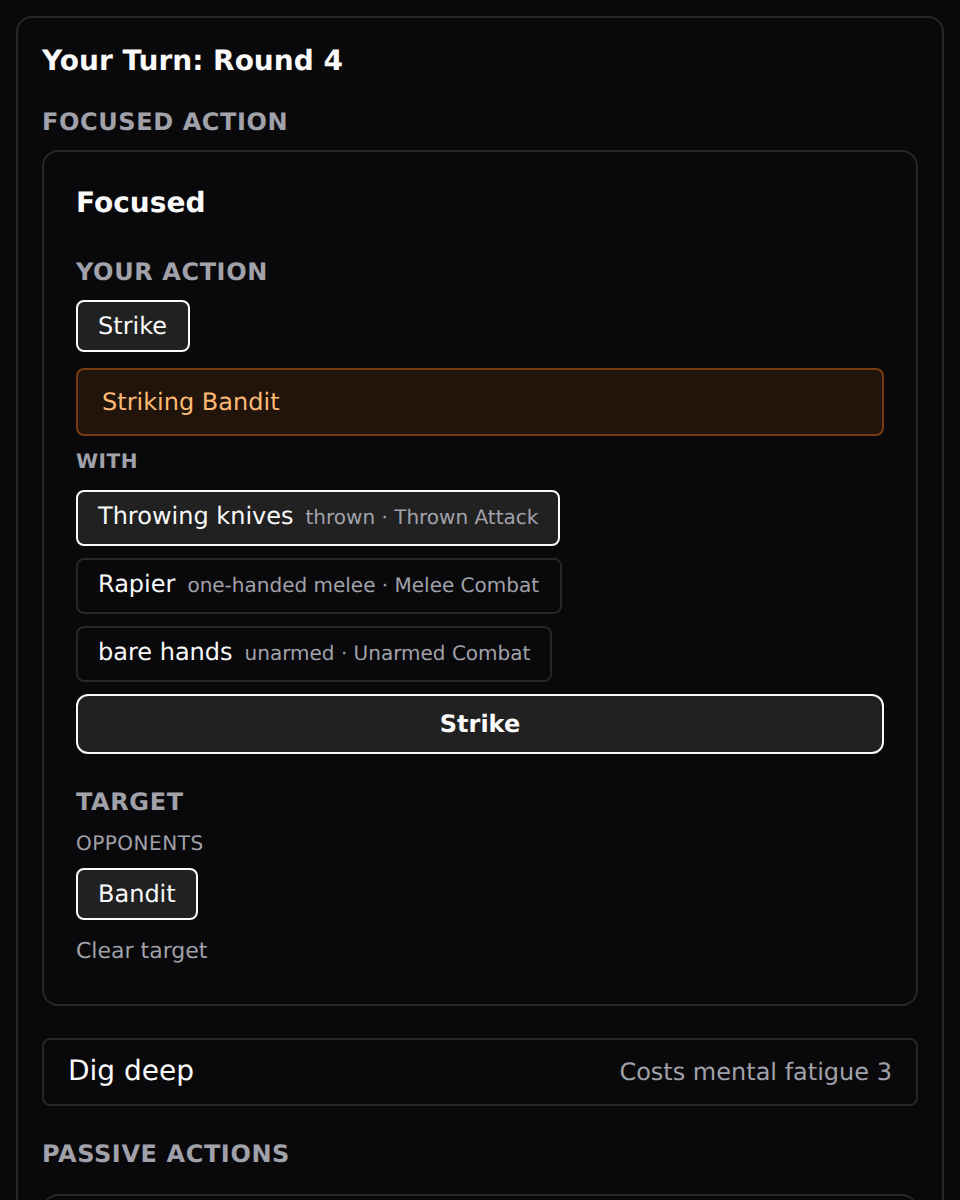
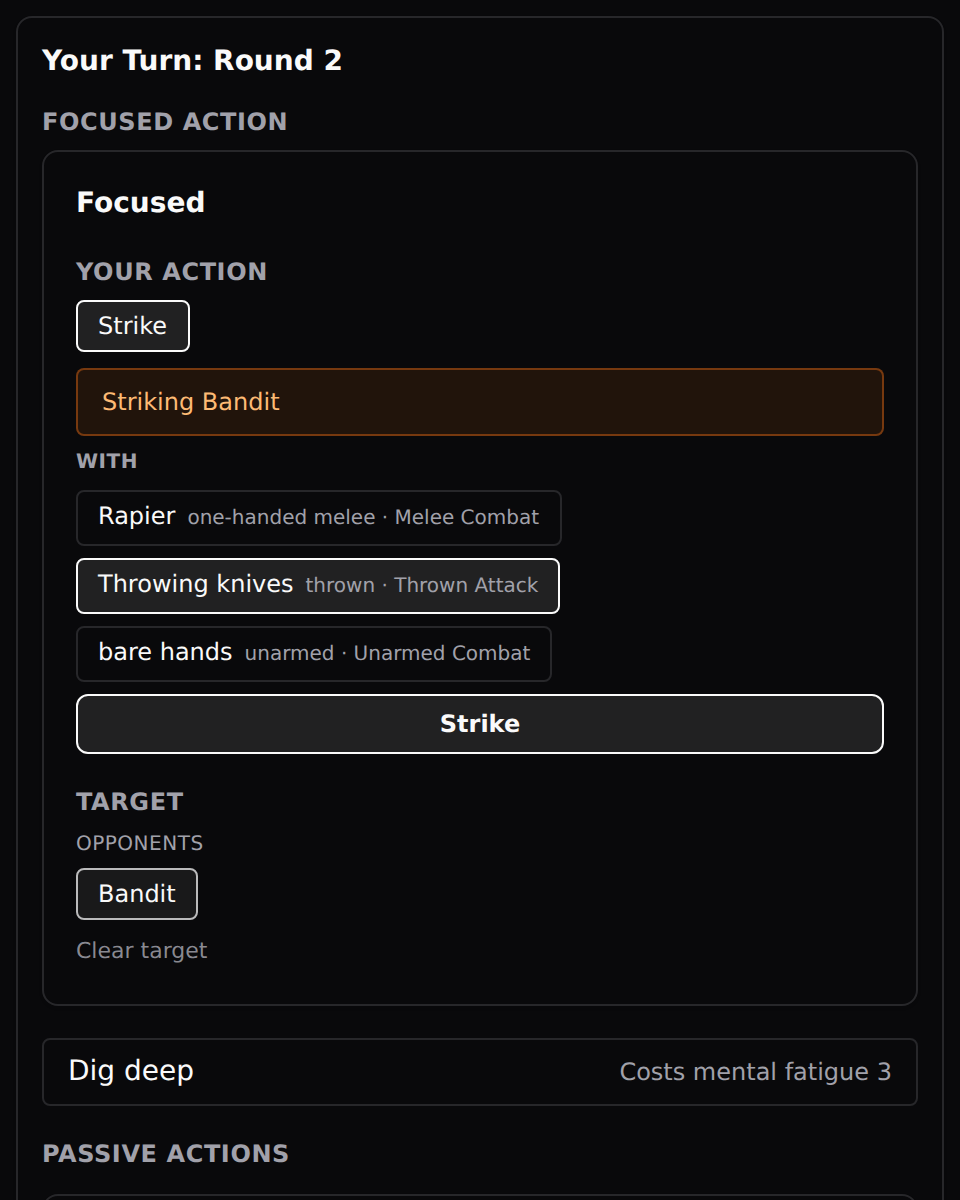
Demo-fidelity review of the basic Strike: PASS, weapon chips keep their order after a hit (#4858)

Changed region(s): [[0.0938, 0.4008, 0.5938, 0.5242], [0.3438, 0.0308, 0.375, 0.0617]]

diff --git a/docs/reviews/4858/demo-fidelity.md b/docs/reviews/4858/demo-fidelity.md
@@ -1,19 +1,19 @@
 # Review evidence: #4858 the basic Strike, demo fidelity (slice 1 of #4844)
 
-- Reviewed revision: 8278f0ec6cecd50840f737c5ca65f303c588be85
+- Reviewed revision: a61093fc3d4b185c9c61baa47042b719e81c3354
 - Reviewer: demo-fidelity-reviewer
-- Reviewer verdict: FAIL
-- Application/build identity: Arx II, branch feature-4858-the-basic-strike-any-character-attacks-w at 8278f0ec6cecd50840f737c5ca65f303c588be85 (second review; the first, at 6d7d153392949a3db4e92cfc9fda837d0a5f577e, found the dropped hit-roll note and the empty reload). The real CombatTurnPanel (YourTurn, ActionDeclarationCard with its Strike leading pick, StrikeControl, RollBreakdownCard in the Last Outcome card) mounted from a throwaway Vite page that used the app's own query client and the real combat_encounter_state handler, served by the branch's own frontend at http://localhost:3918 (deleted after the run). Screen 10 comes from the real telnet command handler.
+- Reviewer verdict: PASS
+- Application/build identity: Arx II, branch feature-4858-the-basic-strike-any-character-attacks-w at a61093fc3d4b185c9c61baa47042b719e81c3354 (third review; the first, at 6d7d153392949a3db4e92cfc9fda837d0a5f577e, found the dropped hit-roll note and the empty reload; the second, at 8278f0ec6cecd50840f737c5ca65f303c588be85, found the weapon chips reordering after a hit, fixed in a61093fc3). The real CombatTurnPanel (YourTurn, ActionDeclarationCard with its Strike leading pick, StrikeControl, RollBreakdownCard in the Last Outcome card) mounted from a throwaway Vite page that used the app's own query client and the real combat_encounter_state handler, served by the branch's own frontend at http://localhost:3918 (deleted after the run). Screen 10 comes from the real telnet command handler.
 - Environment: Chromium through Playwright with colour scheme emulation. Payloads are real: a throwaway journey test (deleted after the run) subclassed the branch's Strike journey setup on the Postgres test database and recorded the real /api/combat/ encounter responses (undeclared, declared with the Rapier, after resolution, declared with the Throwing knives) and the real /api/checks/consequence-outcomes/ responses (a miss row, a hit and damage pair, and a Fine-quality Rapier pair), plus the telnet lines the command handler sent. These rows now come from the roll snapshot stored at roll time. Hobb has a Rapier (one-handed melee, equipped), Throwing knives (thrown) and bare hands against a Bandit.
 - Viewports/themes: 480 wide (the combat rail, labelled desktop) and 390 wide (phone), each in dark and light, device scale 2, cropped to the Your Turn card or the Last Outcome card. Demo references (unchanged from the first review, the demo file is unmodified) rendered at 980 and 390 wide in both themes with the demo own prefers-color-scheme rules.
 - Approved design: https://claude.ai/artifact/XW1VAkFTajFhwGp2EvcXRt (Style and Vow Picks), Screen 4 (a Strike with no technique) and the Strike lines of Screen 10 (telnet). Read in full from a local copy. Issue #4858 spec and the #4844 spec (rows on the Strike roll breakdown) were read for rulings.
 - Visual review: Completed by a vision-capable reviewer. Every build image was opened and compared by eye with the demo screen it answers, at the same viewport width and theme (individually for the key states, and on contact sheets for the remaining theme and viewport variants). Demo screens that are out of scope for this slice (styles, the lapse, natural weapons, vow picks) were not compared and are expected absent.
-- Visual verdict: FAIL
-- Screenshots: ![demo-screen10-desktop-dark](.github/issue-evidence/4858/demo-screen10-desktop-dark.png) ![demo-screen10-desktop-light](.github/issue-evidence/4858/demo-screen10-desktop-light.png) ![demo-screen10-phone-dark](.github/issue-evidence/4858/demo-screen10-phone-dark.png) ![demo-screen10-phone-light](.github/issue-evidence/4858/demo-screen10-phone-light.png) ![demo-screen4-desktop-dark](.github/issue-evidence/4858/demo-screen4-desktop-dark.png) ![demo-screen4-desktop-light](.github/issue-evidence/4858/demo-screen4-desktop-light.png) ![demo-screen4-phone-dark](.github/issue-evidence/4858/demo-screen4-phone-dark.png) ![demo-screen4-phone-light](.github/issue-evidence/4858/demo-screen4-phone-light.png) ![finding-default-weapon-flips-desktop-dark](.github/issue-evidence/4858/finding-default-weapon-flips-desktop-dark.png) ![finding-default-weapon-flips-desktop-light](.github/issue-evidence/4858/finding-default-weapon-flips-desktop-light.png) ![last-outcome-card-desktop-dark](.github/issue-evidence/4858/last-outcome-card-desktop-dark.png) ![last-outcome-card-desktop-light](.github/issue-evidence/4858/last-outcome-card-desktop-light.png) ![last-outcome-card-phone-dark](.github/issue-evidence/4858/last-outcome-card-phone-dark.png) ![last-outcome-card-phone-light](.github/issue-evidence/4858/last-outcome-card-phone-light.png) ![last-outcome-fine-quality-desktop-dark](.github/issue-evidence/4858/last-outcome-fine-quality-desktop-dark.png) ![last-outcome-fine-quality-desktop-light](.github/issue-evidence/4858/last-outcome-fine-quality-desktop-light.png) ![last-outcome-fine-quality-phone-dark](.github/issue-evidence/4858/last-outcome-fine-quality-phone-dark.png) ![last-outcome-fine-quality-phone-light](.github/issue-evidence/4858/last-outcome-fine-quality-phone-light.png) ![last-outcome-miss-desktop-dark](.github/issue-evidence/4858/last-outcome-miss-desktop-dark.png) ![last-outcome-miss-desktop-light](.github/issue-evidence/4858/last-outcome-miss-desktop-light.png) ![last-outcome-miss-phone-dark](.github/issue-evidence/4858/last-outcome-miss-phone-dark.png) ![last-outcome-miss-phone-light](.github/issue-evidence/4858/last-outcome-miss-phone-light.png) ![live-refresh-after-desktop-dark](.github/issue-evidence/4858/live-refresh-after-desktop-dark.png) ![live-refresh-after-desktop-light](.github/issue-evidence/4858/live-refresh-after-desktop-light.png) ![live-refresh-after-phone-dark](.github/issue-evidence/4858/live-refresh-after-phone-dark.png) ![live-refresh-after-phone-light](.github/issue-evidence/4858/live-refresh-after-phone-light.png) ![telnet-strike-dark](.github/issue-evidence/4858/telnet-strike-dark.png) ![telnet-strike-light](.github/issue-evidence/4858/telnet-strike-light.png) ![turn-default-desktop-dark](.github/issue-evidence/4858/turn-default-desktop-dark.png) ![turn-default-desktop-light](.github/issue-evidence/4858/turn-default-desktop-light.png) ![turn-default-phone-dark](.github/issue-evidence/4858/turn-default-phone-dark.png) ![turn-default-phone-light](.github/issue-evidence/4858/turn-default-phone-light.png) ![turn-reload-declared-desktop-dark](.github/issue-evidence/4858/turn-reload-declared-desktop-dark.png) ![turn-reload-declared-desktop-light](.github/issue-evidence/4858/turn-reload-declared-desktop-light.png) ![turn-reload-declared-knives-desktop-dark](.github/issue-evidence/4858/turn-reload-declared-knives-desktop-dark.png) ![turn-reload-declared-knives-desktop-light](.github/issue-evidence/4858/turn-reload-declared-knives-desktop-light.png) ![turn-reload-declared-knives-phone-dark](.github/issue-evidence/4858/turn-reload-declared-knives-phone-dark.png) ![turn-reload-declared-knives-phone-light](.github/issue-evidence/4858/turn-reload-declared-knives-phone-light.png) ![turn-reload-declared-phone-dark](.github/issue-evidence/4858/turn-reload-declared-phone-dark.png) ![turn-reload-declared-phone-light](.github/issue-evidence/4858/turn-reload-declared-phone-light.png) ![turn-strike-just-declared-desktop-dark](.github/issue-evidence/4858/turn-strike-just-declared-desktop-dark.png) ![turn-strike-just-declared-desktop-light](.github/issue-evidence/4858/turn-strike-just-declared-desktop-light.png) ![turn-strike-just-declared-phone-dark](.github/issue-evidence/4858/turn-strike-just-declared-phone-dark.png) ![turn-strike-just-declared-phone-light](.github/issue-evidence/4858/turn-strike-just-declared-phone-light.png) ![turn-strike-picked-desktop-dark](.github/issue-evidence/4858/turn-strike-picked-desktop-dark.png) ![turn-strike-picked-desktop-light](.github/issue-evidence/4858/turn-strike-picked-desktop-light.png) ![turn-strike-picked-phone-dark](.github/issue-evidence/4858/turn-strike-picked-phone-dark.png) ![turn-strike-picked-phone-light](.github/issue-evidence/4858/turn-strike-picked-phone-light.png) ![turn-strike-target-desktop-dark](.github/issue-evidence/4858/turn-strike-target-desktop-dark.png) ![turn-strike-target-desktop-light](.github/issue-evidence/4858/turn-strike-target-desktop-light.png) ![turn-strike-target-phone-dark](.github/issue-evidence/4858/turn-strike-target-phone-dark.png) ![turn-strike-target-phone-light](.github/issue-evidence/4858/turn-strike-target-phone-light.png) ![turn-with-techniques-desktop-dark](.github/issue-evidence/4858/turn-with-techniques-desktop-dark.png) ![turn-with-techniques-desktop-light](.github/issue-evidence/4858/turn-with-techniques-desktop-light.png) ![turn-with-techniques-phone-dark](.github/issue-evidence/4858/turn-with-techniques-phone-dark.png) ![turn-with-techniques-phone-light](.github/issue-evidence/4858/turn-with-techniques-phone-light.png)
-- Comparison notes: Everything the first review reported is fixed. The hit roll result row now reads Hit, good on the left and then the damage roll on the right, in the same ruled two-column row as the other rows, on every hit and not on a miss. A round loaded with a Strike already declared now shows the Strike chip selected, the Striking Bandit badge, the declared weapon (the knives when the knives were declared) and the target selected. The Last Outcome rows appear when the round resolves without a reload. One new divergence is unresolved. The demo draws the Rapier as the first, selected weapon chip; in the build the weapon list has no defined order. The recorded encounter listed the Rapier first until the Rapier was used for a hit, then listed Throwing knives first, so on the next round the panel defaults the Strike to the knives (finding-default-weapon-flips-desktop-dark.png; that image uses the round 4 encounter payload with its declared Strike removed, everything else as recorded). A throwaway test confirmed the cause: strike_weapon_options (src/world/combat/services/declarations/strike.py) iterates character.equipped_items, whose query (src/world/items/handlers.py, EquippedItem.objects.filter(...) with no order_by and no Meta.ordering) has no order, and the Rapier row moves when its durability is decremented; the list was Rapier, Throwing knives, bare hands, then Throwing knives, Rapier, bare hands after one decrement. Justified divergences, not defects. (a) The Maneuver chip is not in the action row because maneuvers keep their existing section below. (b) Strike declares at round resolution instead of instantly, so the build shows a Strike confirm button, the Striking Bandit badge once declared, a You ready a strike line in telnet, and the roll rows in the Last Outcome card after the round resolves instead of in the pick leaf. (c) A bare hands chip is offered, as the demo intro allows fists. (d) The skill rating number beside Melee Combat and the stat row wording stand on the #4844 ruling that the breakdown shows the attacker terms, and on the slice statement that the stat is the strike skill default. (e) Weapon chips use the catalog names (one-handed melee, Melee Combat, Thrown Attack) where the demo uses shortened example words, and the roll heading uses the real opponent name. (f) The demo styling (serif small caps, mono notes, paper palette) is a mock leaf; the build follows the combat rail tokens in both themes. Observation, not a defect: the orange Striking badge in light theme is pale (turn-strike-just-declared-phone-light.png) but follows the repo existing declared badge classes. Rendering reaches the page: the build is Tailwind utilities from the app own bundle, and every element rendered styled in both themes. Out of scope and correctly absent: the style row and style skill (slice 2), the lapse (Screen 5), natural weapons (slice 4), vow picks (Screens 3, 7, 8, 9).
-- Tested interactions: Picked the Strike chip, saw the With row and a disabled Strike button; picked the Bandit target, the button enabled; clicked Strike and read the dispatch body (combat_strike with opponent_id and weapon_id of the first weapon, the Rapier). Loaded a round with a Strike already declared with the Rapier and another declared with the Throwing knives, and read what was selected with nothing clicked. Loaded the panel with technique chips to see Strike lead the row. Loaded the declared round with no rolls, switched the served state to the resolved round, ran the real combat_encounter_state handler and watched the hit and damage rows appear. Loaded the post-resolution encounter for a hit with damage, for a miss, and for a Fine-quality Rapier. Typed strike bandit with Rapier through the real telnet command handler and read the declare, miss and hit lines. Loaded the round 4 encounter with the declaration removed and picked Strike to see the default weapon.
-- Fixture/live boundary: Live: the REST payloads (encounter, consequence outcomes, strike weapons, roll breakdowns, declared round actions) and the telnet lines come from the real application code on a Postgres test database. Forced: the hit and damage roll outcomes (Failure for the miss, Critical Success then Success for the hit, Success then Success for the Fine pair). Fixture: the Rapier, Throwing knives names, the test check setup (Melee Attack, Unarmed Attack, Thrown Attack), the Fine quality tier, and the two technique chips in the technique-row screenshots (static fixture actions in the shape the ActionDeclarationCard tests use). The finding-default-weapon-flips images use a recorded payload with current_round_actions emptied by the harness. The Playwright page intercepted the browser API calls and served the recorded payloads and answered the dispatch POST with success, so no server ran during the screenshots; the websocket message was simulated by calling the real handler in the page. Not rendered live: a full web session through a running game.
-- Overall outcome: FAIL
+- Visual verdict: PASS
+- Screenshots: ![demo-screen10-desktop-dark](.github/issue-evidence/4858/demo-screen10-desktop-dark.png) ![demo-screen10-desktop-light](.github/issue-evidence/4858/demo-screen10-desktop-light.png) ![demo-screen10-phone-dark](.github/issue-evidence/4858/demo-screen10-phone-dark.png) ![demo-screen10-phone-light](.github/issue-evidence/4858/demo-screen10-phone-light.png) ![demo-screen4-desktop-dark](.github/issue-evidence/4858/demo-screen4-desktop-dark.png) ![demo-screen4-desktop-light](.github/issue-evidence/4858/demo-screen4-desktop-light.png) ![demo-screen4-phone-dark](.github/issue-evidence/4858/demo-screen4-phone-dark.png) ![demo-screen4-phone-light](.github/issue-evidence/4858/demo-screen4-phone-light.png) ![last-outcome-card-desktop-dark](.github/issue-evidence/4858/last-outcome-card-desktop-dark.png) ![last-outcome-card-desktop-light](.github/issue-evidence/4858/last-outcome-card-desktop-light.png) ![last-outcome-card-phone-dark](.github/issue-evidence/4858/last-outcome-card-phone-dark.png) ![last-outcome-card-phone-light](.github/issue-evidence/4858/last-outcome-card-phone-light.png) ![last-outcome-fine-quality-desktop-dark](.github/issue-evidence/4858/last-outcome-fine-quality-desktop-dark.png) ![last-outcome-fine-quality-desktop-light](.github/issue-evidence/4858/last-outcome-fine-quality-desktop-light.png) ![last-outcome-fine-quality-phone-dark](.github/issue-evidence/4858/last-outcome-fine-quality-phone-dark.png) ![last-outcome-fine-quality-phone-light](.github/issue-evidence/4858/last-outcome-fine-quality-phone-light.png) ![last-outcome-miss-desktop-dark](.github/issue-evidence/4858/last-outcome-miss-desktop-dark.png) ![last-outcome-miss-desktop-light](.github/issue-evidence/4858/last-outcome-miss-desktop-light.png) ![last-outcome-miss-phone-dark](.github/issue-evidence/4858/last-outcome-miss-phone-dark.png) ![last-outcome-miss-phone-light](.github/issue-evidence/4858/last-outcome-miss-phone-light.png) ![live-refresh-after-desktop-dark](.github/issue-evidence/4858/live-refresh-after-desktop-dark.png) ![live-refresh-after-desktop-light](.github/issue-evidence/4858/live-refresh-after-desktop-light.png) ![live-refresh-after-phone-dark](.github/issue-evidence/4858/live-refresh-after-phone-dark.png) ![live-refresh-after-phone-light](.github/issue-evidence/4858/live-refresh-after-phone-light.png) ![telnet-strike-dark](.github/issue-evidence/4858/telnet-strike-dark.png) ![telnet-strike-light](.github/issue-evidence/4858/telnet-strike-light.png) ![turn-default-desktop-dark](.github/issue-evidence/4858/turn-default-desktop-dark.png) ![turn-default-desktop-light](.github/issue-evidence/4858/turn-default-desktop-light.png) ![turn-default-phone-dark](.github/issue-evidence/4858/turn-default-phone-dark.png) ![turn-default-phone-light](.github/issue-evidence/4858/turn-default-phone-light.png) ![turn-reload-declared-desktop-dark](.github/issue-evidence/4858/turn-reload-declared-desktop-dark.png) ![turn-reload-declared-desktop-light](.github/issue-evidence/4858/turn-reload-declared-desktop-light.png) ![turn-reload-declared-knives-desktop-dark](.github/issue-evidence/4858/turn-reload-declared-knives-desktop-dark.png) ![turn-reload-declared-knives-desktop-light](.github/issue-evidence/4858/turn-reload-declared-knives-desktop-light.png) ![turn-reload-declared-knives-phone-dark](.github/issue-evidence/4858/turn-reload-declared-knives-phone-dark.png) ![turn-reload-declared-knives-phone-light](.github/issue-evidence/4858/turn-reload-declared-knives-phone-light.png) ![turn-reload-declared-phone-dark](.github/issue-evidence/4858/turn-reload-declared-phone-dark.png) ![turn-reload-declared-phone-light](.github/issue-evidence/4858/turn-reload-declared-phone-light.png) ![turn-strike-just-declared-desktop-dark](.github/issue-evidence/4858/turn-strike-just-declared-desktop-dark.png) ![turn-strike-just-declared-desktop-light](.github/issue-evidence/4858/turn-strike-just-declared-desktop-light.png) ![turn-strike-just-declared-phone-dark](.github/issue-evidence/4858/turn-strike-just-declared-phone-dark.png) ![turn-strike-just-declared-phone-light](.github/issue-evidence/4858/turn-strike-just-declared-phone-light.png) ![turn-strike-picked-desktop-dark](.github/issue-evidence/4858/turn-strike-picked-desktop-dark.png) ![turn-strike-picked-desktop-light](.github/issue-evidence/4858/turn-strike-picked-desktop-light.png) ![turn-strike-picked-phone-dark](.github/issue-evidence/4858/turn-strike-picked-phone-dark.png) ![turn-strike-picked-phone-light](.github/issue-evidence/4858/turn-strike-picked-phone-light.png) ![turn-strike-target-desktop-dark](.github/issue-evidence/4858/turn-strike-target-desktop-dark.png) ![turn-strike-target-desktop-light](.github/issue-evidence/4858/turn-strike-target-desktop-light.png) ![turn-strike-target-phone-dark](.github/issue-evidence/4858/turn-strike-target-phone-dark.png) ![turn-strike-target-phone-light](.github/issue-evidence/4858/turn-strike-target-phone-light.png) ![turn-with-techniques-desktop-dark](.github/issue-evidence/4858/turn-with-techniques-desktop-dark.png) ![turn-with-techniques-desktop-light](.github/issue-evidence/4858/turn-with-techniques-desktop-light.png) ![turn-with-techniques-phone-dark](.github/issue-evidence/4858/turn-with-techniques-phone-dark.png) ![turn-with-techniques-phone-light](.github/issue-evidence/4858/turn-with-techniques-phone-light.png) ![weapon-order-after-hit-desktop-dark](.github/issue-evidence/4858/weapon-order-after-hit-desktop-dark.png) ![weapon-order-after-hit-desktop-light](.github/issue-evidence/4858/weapon-order-after-hit-desktop-light.png)
+- Comparison notes: Everything the first review reported is fixed. The hit roll result row now reads Hit, good on the left and then the damage roll on the right, in the same ruled two-column row as the other rows, on every hit and not on a miss. A round loaded with a Strike already declared now shows the Strike chip selected, the Striking Bandit badge, the declared weapon (the knives when the knives were declared) and the target selected. The Last Outcome rows appear when the round resolves without a reload. The weapon chip order, the one divergence the second review reported, is fixed: the equipped-items query now has a defined order (order_by pk, a61093fc3). Re-verified the way it was found, on a throwaway journey on the Postgres test database: Hobb with the Rapier and the Throwing knives, the encounter recorded before the Strike, after a Strike hit with the Rapier that took its durability from 10 to 9, and in the next round. The list read Rapier, Throwing knives, bare hands in all three, where before the fix it flipped to Throwing knives first after the hit. With Strike picked in that next-round payload the Rapier is the first, selected chip and the knives are not (weapon-order-after-hit-desktop-dark.png, weapon-order-after-hit-desktop-light.png). Justified divergences, not defects. (a) The Maneuver chip is not in the action row because maneuvers keep their existing section below. (b) Strike declares at round resolution instead of instantly, so the build shows a Strike confirm button, the Striking Bandit badge once declared, a You ready a strike line in telnet, and the roll rows in the Last Outcome card after the round resolves instead of in the pick leaf. (c) A bare hands chip is offered, as the demo intro allows fists. (d) The skill rating number beside Melee Combat and the stat row wording stand on the #4844 ruling that the breakdown shows the attacker terms, and on the slice statement that the stat is the strike skill default. (e) Weapon chips use the catalog names (one-handed melee, Melee Combat, Thrown Attack) where the demo uses shortened example words, and the roll heading uses the real opponent name. (f) The demo styling (serif small caps, mono notes, paper palette) is a mock leaf; the build follows the combat rail tokens in both themes. Observation, not a defect: the orange Striking badge in light theme is pale (turn-strike-just-declared-phone-light.png) but follows the repo existing declared badge classes. Rendering reaches the page: the build is Tailwind utilities from the app own bundle, and every element rendered styled in both themes. Out of scope and correctly absent: the style row and style skill (slice 2), the lapse (Screen 5), natural weapons (slice 4), vow picks (Screens 3, 7, 8, 9).
+- Tested interactions: Picked the Strike chip, saw the With row and a disabled Strike button; picked the Bandit target, the button enabled; clicked Strike and read the dispatch body (combat_strike with opponent_id and weapon_id of the first weapon, the Rapier). Loaded a round with a Strike already declared with the Rapier and another declared with the Throwing knives, and read what was selected with nothing clicked. Loaded the panel with technique chips to see Strike lead the row. Loaded the declared round with no rolls, switched the served state to the resolved round, ran the real combat_encounter_state handler and watched the hit and damage rows appear. Loaded the post-resolution encounter for a hit with damage, for a miss, and for a Fine-quality Rapier. Typed strike bandit with Rapier through the real telnet command handler and read the declare, miss and hit lines. Recorded the encounter payload before and after a Rapier hit that wore the Rapier, loaded the next round and picked Strike to see the default weapon stays the Rapier. Declared a Strike with the Throwing knives after that hit and reloaded it to see the knives selected with the Rapier still first.
+- Fixture/live boundary: Live: the REST payloads (encounter, consequence outcomes, strike weapons, roll breakdowns, declared round actions) and the telnet lines come from the real application code on a Postgres test database. Forced: the hit and damage roll outcomes (Failure for the miss, Critical Success then Success for the hit, Success then Success for the Fine pair). Fixture: the Rapier, Throwing knives names, the test check setup (Melee Attack, Unarmed Attack, Thrown Attack), the Fine quality tier, and the two technique chips in the technique-row screenshots (static fixture actions in the shape the ActionDeclarationCard tests use). The Playwright page intercepted the browser API calls and served the recorded payloads and answered the dispatch POST with success, so no server ran during the screenshots; the websocket message was simulated by calling the real handler in the page. Not rendered live: a full web session through a running game.
+- Overall outcome: PASS
 
 ## Visual checklist
 
@@ -28,7 +28,7 @@ Result is MATCH, or DIVERGES for a defect. Justified divergences are marked MATC
 | S4 Maneuver chip in the row | A Maneuver chip at the end of the row | MATCH | Justified divergence (a): maneuvers keep their existing Maneuvers section below; .github/issue-evidence/4858/turn-with-techniques-desktop-dark.png shows the row without it |
 | S4 With heading | A With heading under the pick row | MATCH | .github/issue-evidence/4858/turn-strike-picked-phone-light.png, WITH label directly under the Strike chip |
 | S4 Weapon chips | One chip per equipped weapon, name then kind and skill, first selected | MATCH | .github/issue-evidence/4858/turn-strike-picked-desktop-dark.png, Rapier one-handed melee Melee Combat selected, Throwing knives thrown Thrown Attack. Kind and skill read the catalog names, not the demo shortened example words (divergence e). The order guarantee is a separate row below |
-| S4 Weapon chip order stays put | The Rapier is the first, selected chip (the demo draws no reordering) | DIVERGES | .github/issue-evidence/4858/finding-default-weapon-flips-desktop-dark.png and .github/issue-evidence/4858/finding-default-weapon-flips-desktop-light.png: after one Strike hit with the Rapier the recorded encounter lists Throwing knives first, so Strike defaults to the knives; .github/issue-evidence/4858/turn-reload-declared-knives-desktop-dark.png shows the same order. strike_weapon_options (strike.py) iterates character.equipped_items, a query with no order_by, and the Rapier row moves after its durability update. Defect |
+| S4 Weapon chip order stays put | The Rapier is the first, selected chip (the demo draws no reordering) | MATCH | .github/issue-evidence/4858/weapon-order-after-hit-desktop-dark.png and .github/issue-evidence/4858/weapon-order-after-hit-desktop-light.png: the next-round payload recorded after a Rapier hit (durability 10 to 9) lists Rapier, Throwing knives, bare hands and Strike defaults to the Rapier. Fixed in a61093fc3 (EquippedItem query order_by pk, world/items/handlers.py); the journey test_the_weapon_choices_keep_their_order_after_a_strike_wears_one covers it. .github/issue-evidence/4858/turn-reload-declared-knives-desktop-dark.png keeps the Rapier first while the declared knives are the selected chip |
 | S4 Bare hands chip | Demo offers weapons only | MATCH | Justified divergence (c): the demo intro allows fists; .github/issue-evidence/4858/turn-strike-picked-desktop-dark.png shows bare hands unarmed Unarmed Combat |
 | S4 Declare control | Demo has no button (Strike is instant) | MATCH | Justified divergence (b): round-based combat declares then resolves; .github/issue-evidence/4858/turn-strike-target-desktop-dark.png shows a Strike button, disabled until a target is picked (.github/issue-evidence/4858/turn-strike-picked-desktop-light.png) and enabled after |
 | S4 Declared state, just clicked | Not drawn in the demo | MATCH | .github/issue-evidence/4858/turn-strike-just-declared-desktop-light.png, orange Striking Bandit badge under the Strike chip after the click, the pick, weapon and target stay selected; follows the existing orange declared-badge convention in YourTurn.tsx |
@@ -61,7 +61,7 @@ Result is MATCH, or DIVERGES for a defect. Justified divergences are marked MATC
 |---|---|---|---|
 | strike-pick-row | PASS | turn-with-techniques-desktop-light.png, turn-strike-picked-desktop-dark.png | Maneuver chip stays in its own section (a) |
 | with-weapon-row | PASS | turn-strike-picked-phone-light.png, turn-strike-target-desktop-dark.png | Bare hands chip (c), catalog names (e) |
-| weapon-chip-order-stable | FAIL | finding-default-weapon-flips-desktop-dark.png, turn-reload-declared-knives-desktop-dark.png | None: the demo shows the Rapier first and selected; the build reorders after the Rapier is used |
+| weapon-chip-order-stable | PASS | weapon-order-after-hit-desktop-dark.png, weapon-order-after-hit-desktop-light.png, turn-reload-declared-knives-desktop-dark.png | Fixed in a61093fc3; no divergence left |
 | hit-roll-rows | PASS | last-outcome-card-desktop-dark.png, last-outcome-card-phone-dark.png | Style rows are slice 2, rating by #4844 ruling (d) |
 | hit-roll-result-note | PASS | last-outcome-card-desktop-dark.png, last-outcome-card-phone-light.png, last-outcome-miss-desktop-dark.png | Fixed since the previous run; shown on a hit only |
 | damage-roll-rows | PASS | last-outcome-fine-quality-desktop-light.png, last-outcome-card-desktop-light.png | Vow pick note is outside this slice |
@@ -75,4 +75,4 @@ Result is MATCH, or DIVERGES for a defect. Justified divergences are marked MATC
 
 ## Unresolved findings
 
-- weapon-chip-order-stable: the Strike weapon chips have no defined order, so the Rapier the demo draws first and selected stops being first once it is used. strike_weapon_options (src/world/combat/services/declarations/strike.py) builds the list by iterating character.equipped_items, and that query (src/world/items/handlers.py, EquippedItem.objects.filter(character_id=...) with no order_by, EquippedItem has no Meta.ordering) returns rows in database order. A Strike hit decrements the Rapier durability, the Rapier row moves, and the next encounter payload lists Throwing knives first; StrikeControl then defaults the pick to weapons[0], so a player who clicks Strike without looking strikes with the knives. Recorded: Rapier, Throwing knives, bare hands before the first hit; Throwing knives, Rapier, bare hands after it (finding-default-weapon-flips-desktop-dark.png). Fix: give the list a stable order (for example sort the options by the equipped body region and layer, or order the handler query by EquippedItem pk) so the first equipped weapon keeps its place. Mechanical companion: a Strike journey that equips two weapons, calls decrement_item_durability on the first, and asserts the strike_weapons list from /api/combat/ keeps the same order.
+None
